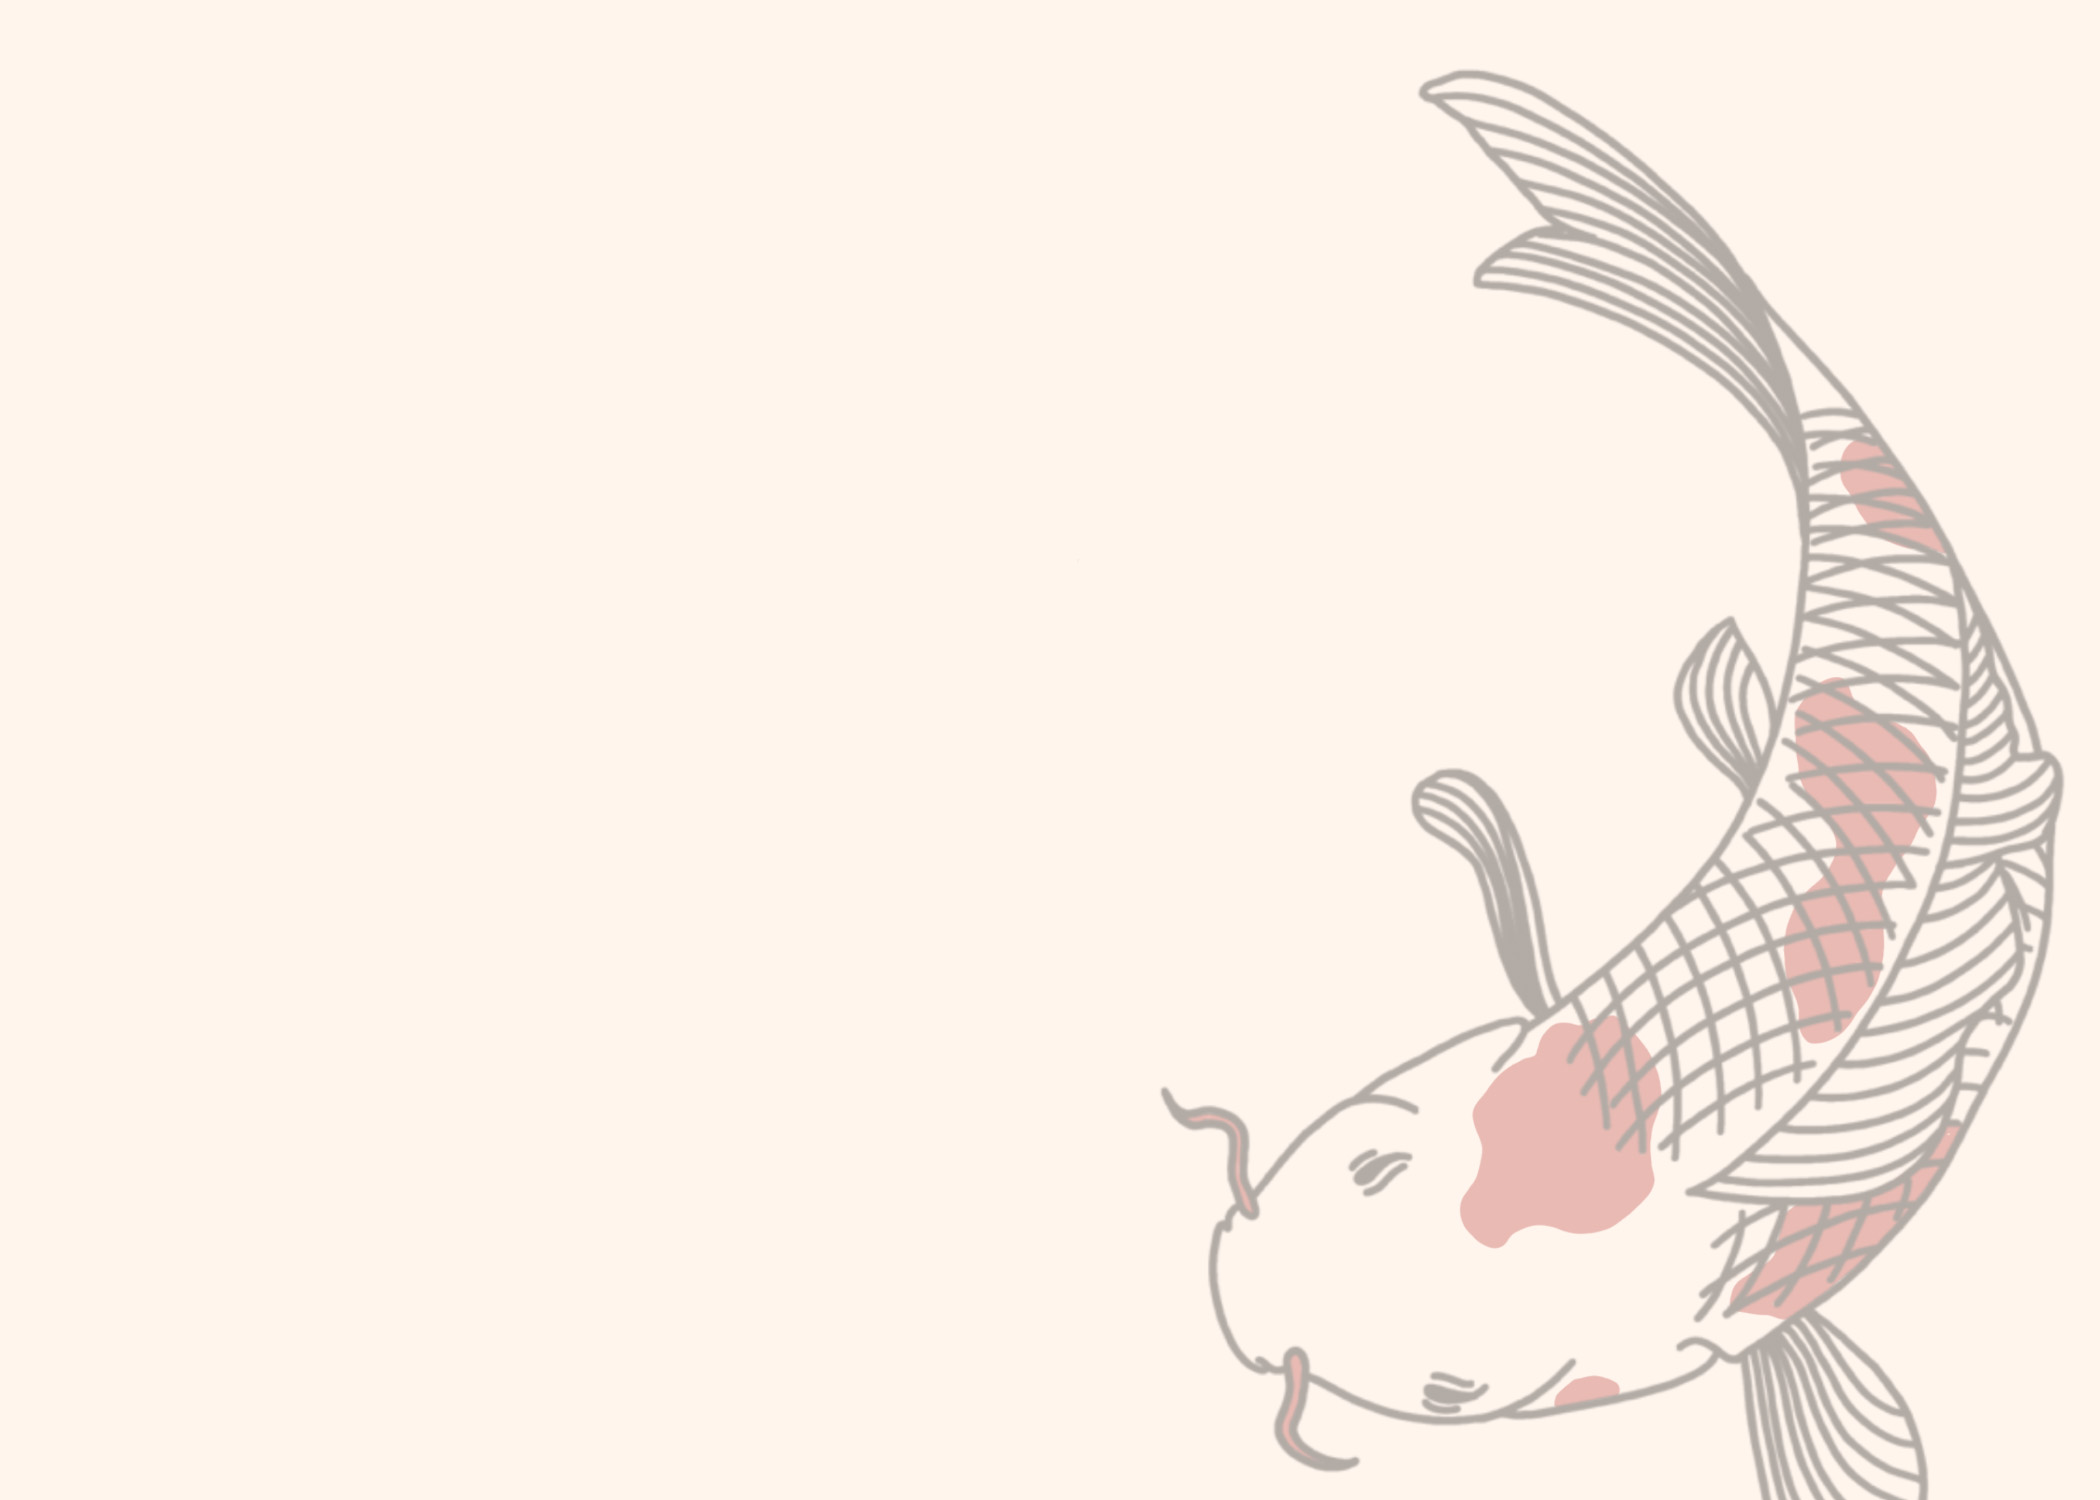
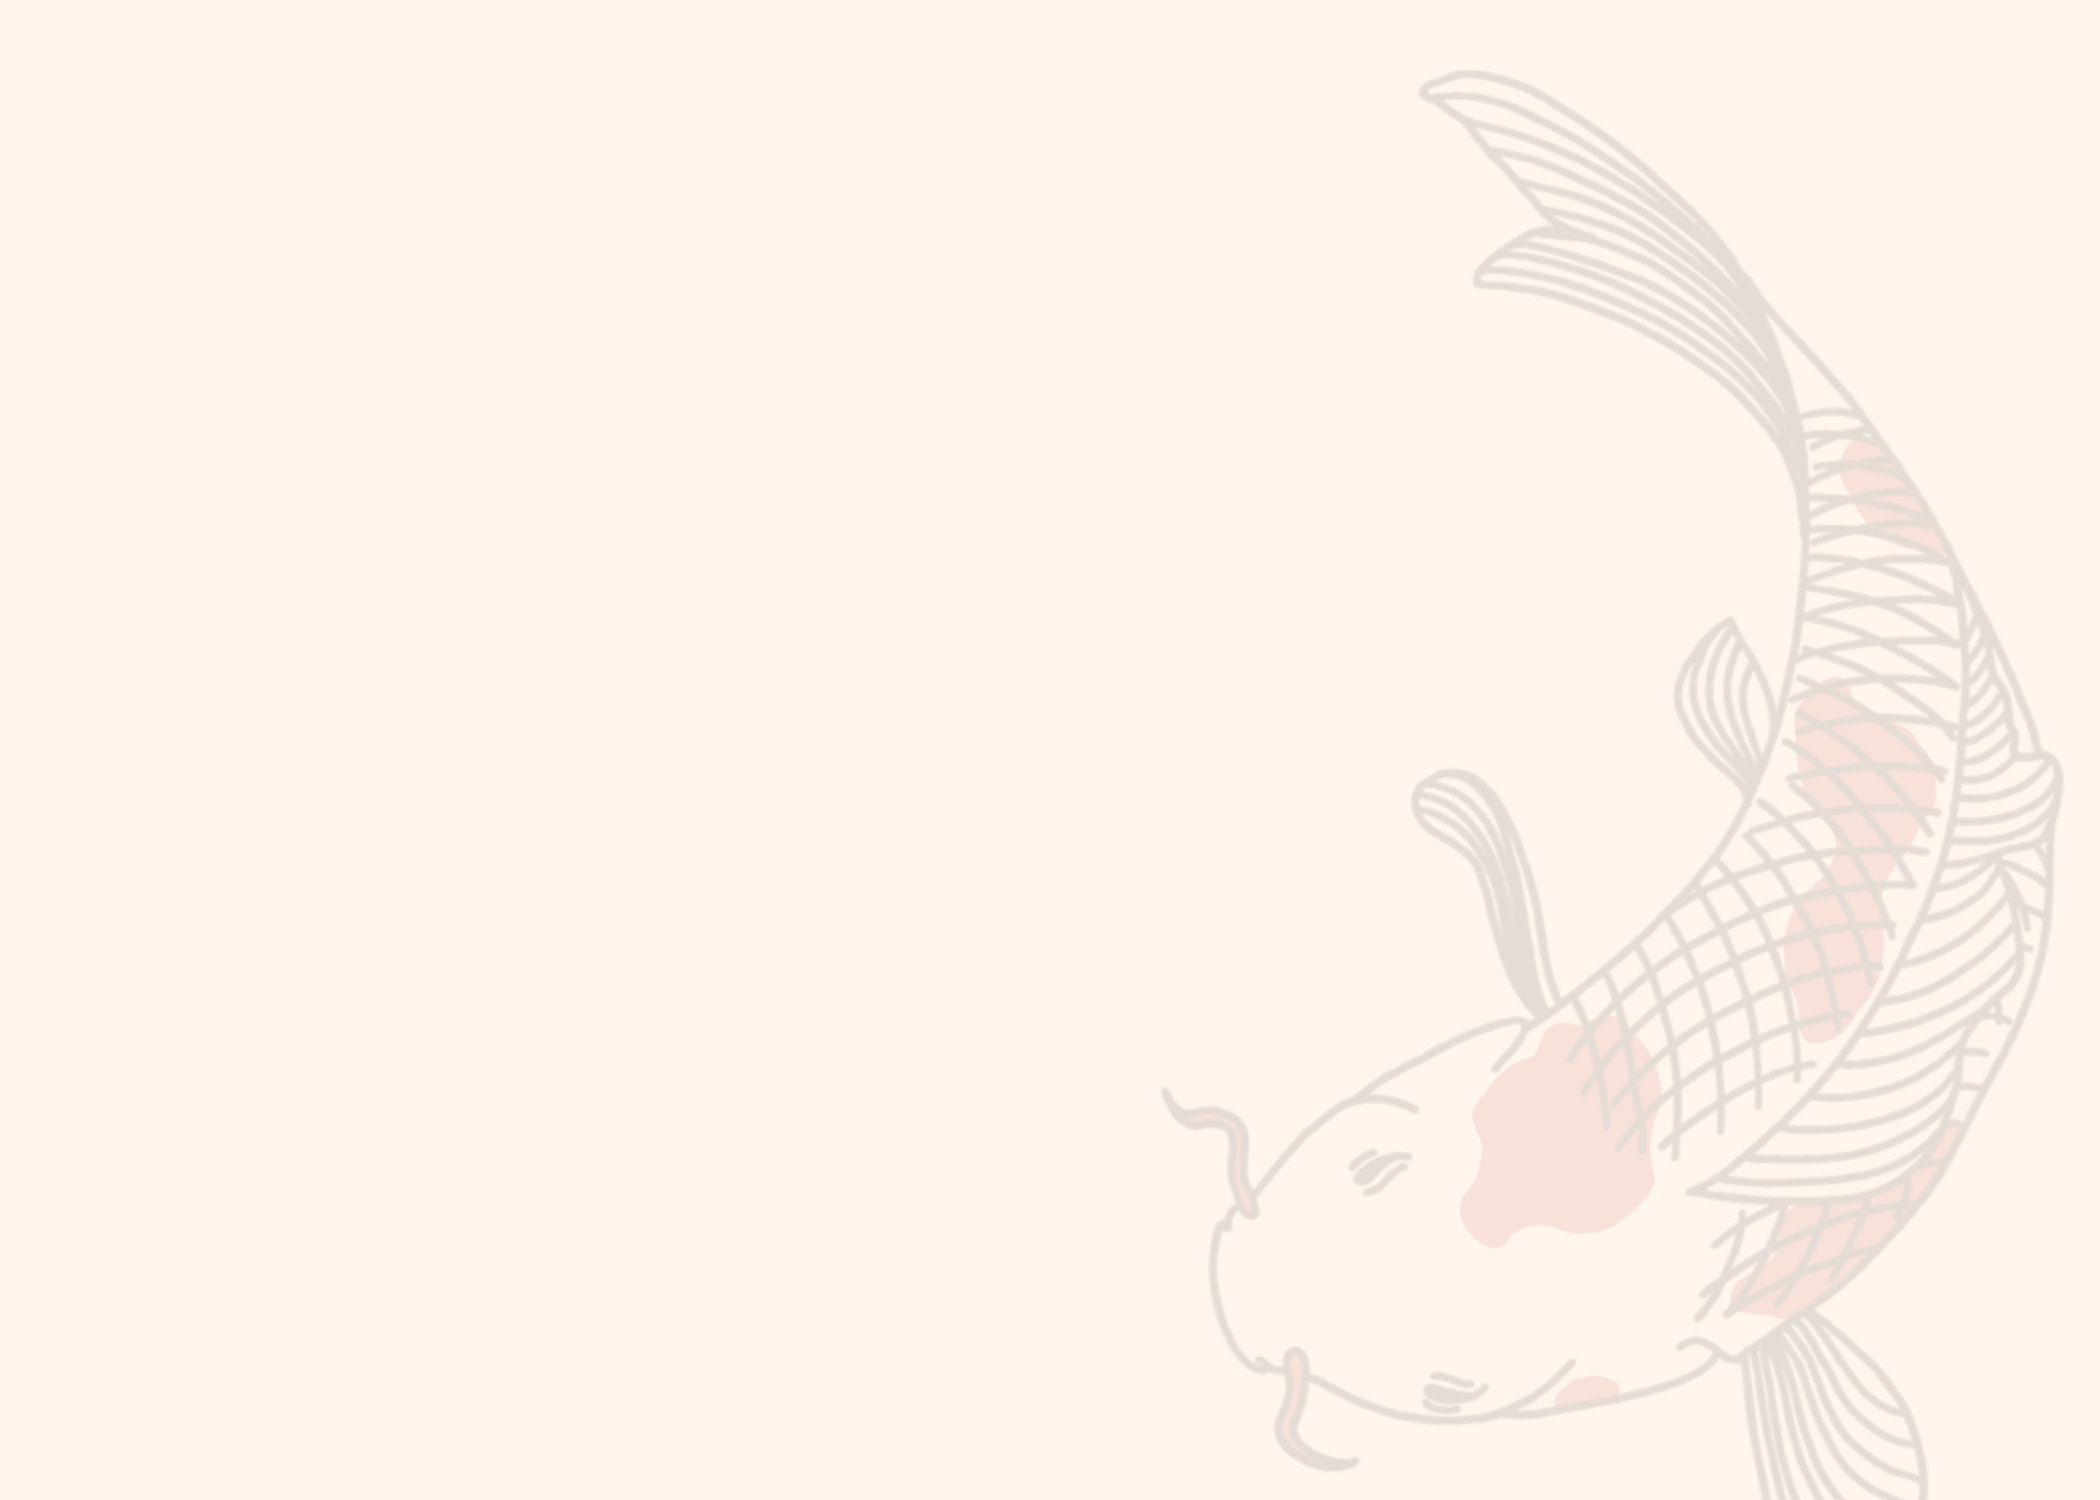
corrections

Changed region(s): [[0.5571, 0.0307, 0.9905, 1.0], [0.65, 0.7053, 0.681, 0.736]]

diff --git a/style.css b/style.css
@@ -8,6 +8,10 @@
 /*skifte baggrundsfarve*/
 body{
     background-color: #FFF5ED;
+    background-image: url('/img/baggrund-page.jpg');
+    background-size: cover; /* Dette sikrer, at baggrundsbilledet dækker hele skærmområdet */
+    background-repeat: no-repeat; /* Dette forhindrer baggrundsbilledet i at gentage sig */
+
 }
 
 /* gøre baggrundsbilledet fixed, relative og fylde hele skærmen*/
@@ -238,14 +242,14 @@ carousel img {
 
 .favorite-box h2{
     font-size: 50px;
-    margin-bottom: 20px;
+    margin-bottom: 40px;
 }
 
 .favorite-box button {
     margin-top: 50px;
     background-color: #B6312D;
     color: #fff;
-    padding: 1rem 5rem;
+    padding: 1rem 0rem;
     border: none;
     border-radius: 25px;
     cursor: pointer;
@@ -255,7 +259,9 @@ carousel img {
 /* Recipe styling */
 
 .container h2{
-    margin-bottom: 30px;
+    margin-top: 50px;
+    margin-bottom: 40px;
+    font-size: 40px;
 }
 
 .recipe {
@@ -264,6 +270,8 @@ carousel img {
 }
 
 .recipe-images {
+    margin-top: 50px;
+    margin-bottom: 100px;
     display: grid;
     grid-template-columns: repeat(2, 1fr);
     grid-gap: 70px;
@@ -505,9 +513,9 @@ button {
     cursor: pointer;
     font-size: 1em;
 }
-/*********************************************************MÅLTIDKASSER SILJA***************************************************************/
+/*********************************************************MÅLTIDKASSER***************************************************************/
 
-/*********************************************************MÅLTIDKASSER SILJA***************************************************************/
+/*********************************************************MÅLTIDKASSER ***************************************************************/
 
 /* Container styling */
 .container {
@@ -599,7 +607,7 @@ button {
     color: #fff;
 }
 
-/*********************************************************MÅLTIDKASSER SILJASLUT***************************************************************/
+/*********************************************************MÅLTIDKASSER SILJA SLUT***********************************************************/
 
 /* Container styling */
 .container {

diff --git a/maltidskasser.html b/maltidskasser.html
@@ -33,6 +33,7 @@
         </div>
       </ul>
     </nav>
+    
     <section class="favorite-section">
         <div class="mealplan-box">
             <h2>Vores måltidskasser</h2>
@@ -46,7 +47,7 @@
                     <div class="overlay">
                         <a href="/favoritkasse.html">Favoritkassen</a>
                         <p>- Kuvertpris: fra 35kr -</p>
-                        <button>Vælg</button>
+                        <button>Læg i kurv</button>
                     </div>
                 </div>
                 <div class="mealplan-item">
@@ -54,7 +55,7 @@
                     <div class="overlay">
                         <a href="#">Luksuskassen</a>
                         <p>- Kuvertpris: fra 50kr -</p>
-                        <button>Vælg</button>
+                        <button>Læg i kurv</button>
                     </div>
                 </div>
                 <div class="mealplan-item">
@@ -62,7 +63,7 @@
                     <div class="overlay">
                         <a href="#">Hurtigkassen</a>
                         <p>- kuvertpris: fra 35kr -</p>
-                        <button>Vælg</button>
+                        <button>Læg i kurv</button>
                     </div>
                 </div>
             </div>

diff --git a/favoritkasse.html b/favoritkasse.html
@@ -53,6 +53,7 @@
                     <div class="overlay">
                         <a href="#">Donburi</a>
                         <p>- Japans egen poké bowl -</p>
+                        <button>Læs videre...</button>
                     </div>
                 </div>
                 <div class="recipe-item">
@@ -60,6 +61,7 @@
                     <div class="overlay">
                         <a href="#">Ramen</a>
                         <p>- Japans street food -</p>
+                        <button>Læs videre...</button>
                     </div>
                 </div>
                 <div class="recipe-item">
@@ -67,6 +69,7 @@
                     <div class="overlay">
                         <a href="#">Nagoya Tebasaki</a>
                         <p>- Buffalo kyllingevinger -</p>
+                        <button>Læs videre...</button>
                     </div>
                 </div>
                 <div class="recipe-item">
@@ -74,6 +77,7 @@
                     <div class="overlay">
                         <a href="#">Okonomiyaki</a>
                         <p>- Japans svar på pizza -</p>
+                        <button>Læs videre...</button>
                     </div>
                 </div>
             </div>

diff --git a/kurv.html b/kurv.html
@@ -14,13 +14,13 @@
     <nav class="navbar">
         <ul>
             <li> 
-                <a href="">
+                <a href="index.html">
                     <img class="logo" src="img/logo-final.png" alt="">
                 </a>
             </li>
             <div class="nav-links">
                 <li>
-                    <a href="måltidskasser.html">Måltidskasser</a>
+                    <a href="maltidskasser.html">Måltidskasser</a>
                 </li>
                 <li>
                     <a href="om-os.html">Om os</a>

diff --git a/om-os.html b/om-os.html
@@ -3,12 +3,7 @@
 <head>
     <meta charset="UTF-8">
     <meta name="viewport" content="width=device-width, initial-scale=1.0">
-<<<<<<< Updated upstream
-    <title>Om os</title>
-=======
-    <link rel="icon" href="img/favicon.ico">
     <title>Nippon - Om os</title>
->>>>>>> Stashed changes
     <link rel="preconnect" href="https://fonts.gstatic.com" crossorigin>
 <link href="https://fonts.googleapis.com/css2?family=Playfair+Display:ital,wght@0,400..900;1,400..900&display=swap" rel="stylesheet">
     <link rel="stylesheet" href="style.css">
